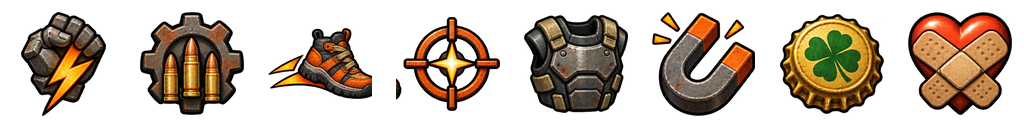
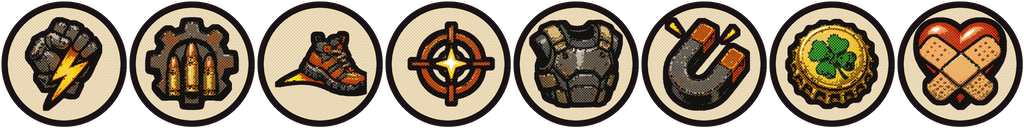
Иконки прошивок в стиле ретро-комикса: чернильный контур, плоские тона, растр, газетная плашка (Beer Party Studio)

diff --git a/tools/comic_icons.py b/tools/comic_icons.py
@@ -1,0 +1,96 @@
+"""Запуск: python3 tools/comic_icons.py <лист> <выход> <ячейка> (пример: firmware_icons из astra/inbox/world/survival2).
+Иконки в стиле ретро-комикса: плоские тона, чернильный контур, растровые точки в тенях, газетная плашка."""
+import sys
+import numpy as np
+from PIL import Image, ImageFilter, ImageDraw
+
+INK = (24, 18, 22)
+PAPER = (236, 222, 188)
+
+
+def flat(rgb, levels=4):
+    # Плоские тона: постеризация яркости при сохранении оттенка, лёгкое «выцветание» печати.
+    a = rgb.astype(np.float32) / 255.0
+    lum = a.mean(axis=2, keepdims=True)
+    q = np.round(lum * (levels - 1)) / (levels - 1)
+    k = np.where(lum > 1e-3, q / np.maximum(lum, 1e-3), 0)
+    out = np.clip(a * k, 0, 1)
+    # Приглушить насыщенность и подтянуть к тёплой бумаге.
+    grey = out.mean(axis=2, keepdims=True)
+    out = np.clip(grey + (out - grey) * 1.15, 0, 1)
+    out = out * 0.88 + np.array(PAPER) / 255.0 * 0.12
+    return (out * 255).astype(np.uint8), lum[..., 0]
+
+
+def halftone(size, step, radius_of):
+    h, w = size
+    yy, xx = np.mgrid[0:h, 0:w].astype(np.float32)
+    # Решётка под 45°, как у типографского растра.
+    u = (xx + yy) / np.sqrt(2) / step
+    v = (xx - yy) / np.sqrt(2) / step
+    du = (u - np.round(u)) * step
+    dv = (v - np.round(v)) * step
+    d = np.sqrt(du * du + dv * dv)
+    return d < radius_of
+
+
+def comic_icon(im, out_size=128, scale=4):
+    big = im.resize((im.width * scale, im.height * scale), Image.LANCZOS)
+    a = np.array(big).astype(np.uint8)
+    alpha = a[..., 3]
+    mask = alpha > 110
+    # Обрезки соседних иконок по краям ячейки: оставляем только крупные куски.
+    from scipy import ndimage
+    lab, n = ndimage.label(mask)
+    if n > 1:
+        sizes = ndimage.sum(mask, lab, range(1, n + 1))
+        objs = ndimage.find_objects(lab)
+        w = mask.shape[1]
+        # Обрезок — кусок, прижатый к левому/правому краю ячейки; мелкие детали внутри (искры) оставляем.
+        keep = [i + 1 for i, s in enumerate(sizes)
+                if s >= sizes.max() * 0.3 or (objs[i][1].start > w * 0.12 and objs[i][1].stop < w * 0.88)]
+        mask = np.isin(lab, keep)
+    rgb, lum = flat(a[..., :3])
+    # Тени — точками: чем темнее, тем крупнее точка.
+    dots = halftone(mask.shape, 9.0 * scale / 4, np.clip((0.75 - lum) * 6.0, 0, 3.6) * scale / 4)
+    shade = mask & dots & (lum < 0.7)
+    rgb[shade] = (rgb[shade].astype(np.float32) * 0.35).astype(np.uint8)
+    # Внутренние чернильные линии по границам тонов.
+    edge_src = Image.fromarray((lum * 255).astype(np.uint8)).filter(ImageFilter.FIND_EDGES)
+    edges = (np.array(edge_src.filter(ImageFilter.MaxFilter(5))) > 45) & mask
+    rgb[edges] = INK
+    # Толстый внешний контур.
+    m = Image.fromarray((mask * 255).astype(np.uint8))
+    outer = np.array(m.filter(ImageFilter.MaxFilter(5 * scale + 1))) > 0
+    canvas = np.zeros((*mask.shape, 4), np.uint8)
+    canvas[outer] = (*INK, 255)
+    canvas[mask, :3] = rgb[mask]
+    canvas[mask, 3] = 255
+    icon = Image.fromarray(canvas, "RGBA")
+    # Плашка: газетный круг с точками и чернильной рамкой (как фон комикс-панели).
+    side = big.width
+    badge = Image.new("RGBA", (side, side), (0, 0, 0, 0))
+    yy, xx = np.mgrid[0:side, 0:side]
+    r = np.sqrt((xx - side / 2) ** 2 + (yy - side / 2) ** 2)
+    disc = r < side * 0.47
+    bg = np.zeros((side, side, 4), np.uint8)
+    bg[disc] = (*PAPER, 255)
+    bd = halftone((side, side), 9.0 * scale / 4, 1.6 * scale / 4) & disc
+    bg[bd] = (214, 170, 120, 255)
+    ring = (r >= side * 0.44) & (r < side * 0.49)
+    bg[ring] = (*INK, 255)
+    badge = Image.fromarray(bg, "RGBA")
+    inner = icon.resize((int(side * 0.86), int(side * 0.86)), Image.LANCZOS)
+    off = (side - inner.width) // 2
+    badge.alpha_composite(inner, (off, off))
+    return badge.resize((out_size, out_size), Image.LANCZOS)
+
+
+if __name__ == "__main__":
+    src, dst, cell = sys.argv[1], sys.argv[2], int(sys.argv[3])
+    sheet = Image.open(src).convert("RGBA")
+    n = sheet.width // cell
+    out = Image.new("RGBA", sheet.size, (0, 0, 0, 0))
+    for i in range(n):
+        out.alpha_composite(comic_icon(sheet.crop((i * cell, 0, (i + 1) * cell, cell)), cell), (i * cell, 0))
+    out.save(dst, optimize=True)
